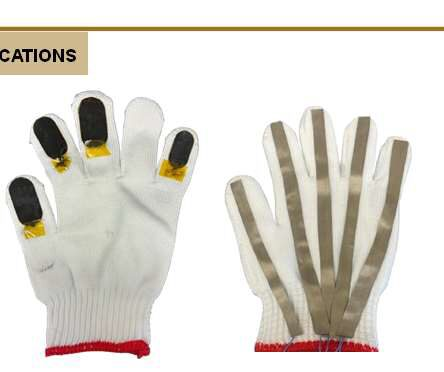
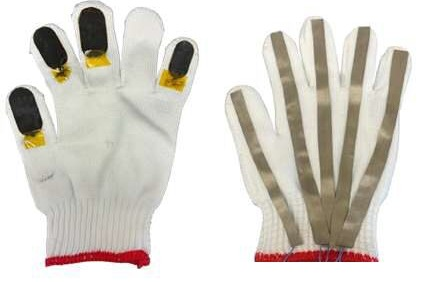
Update About wording, expand materials write-up, tighten glove photo
- About: "intersection" -> "bridge" of physical/digital sides
- Materials Selection: add concrete findings from the linked study
  (surface roughness, print time, warping, and load-to-failure numbers
  for ABS-R vs Nylon CF)
- Cropped a leftover poster-ribbon artifact off the top of the glove
  research-cover photo
- Glove research credits now explicitly name the 2026 Research
  Distinction Award

diff --git a/index.html b/index.html
@@ -719,7 +719,7 @@
         </div>
         <div class="about-grid">
           <div class="reveal">
-            <p>I'm a mechanical engineering student who's happiest working at the intersection of the physical and digital sides of a build. I like problems that start with a hands-on constraint — a broken part, a rough material, a signal that needs to be captured — and end with something fabricated, tested, and working.</p>
+            <p>I'm a mechanical engineering student who's happiest working at the bridge of the physical and digital sides of a build. I like problems that start with a hands-on constraint — a broken part, a rough material, a signal that needs to be captured — and end with something fabricated, tested, and working.</p>
             <p>My interests sit across manufacturing and materials: additive manufacturing, CNC fabrication, reverse-engineering, and sensor research, with coursework and lab work that lean into both the design side and the physical build side of engineering. I care about work that's precise enough to hold up under testing and practical enough to actually get made.</p>
           </div>
           <div class="spec-list reveal">
@@ -918,7 +918,7 @@
           <p>ZnO's high-aspect-ratio nanorods increase contact area for stronger triboelectric charge generation and add a piezoelectric response, so the sensor reacts to both contact and mechanical deformation. LIG's porous, laser-patterned graphene structure keeps the electrode conductive through repeated bending — important for something worn on a moving hand.</p>
           <p>I built a multi-channel data-acquisition system on an Arduino Nano BLE to digitize and transmit sensor signals over Bluetooth, then ran voltage-spike testing across all five fingers individually. Each finger produced repeatable voltage spikes on contact and pressure, confirming the sensing layers were working as intended.</p>
 
-          <p class="research-credits">With Don Perera and Prof. Wenzhuo Wu, Flex Laboratory, Purdue University. Presented as a research poster; applications include robotic hand control, ergonomic monitoring, and digital-twin data collection.</p>
+          <p class="research-credits">With Don Perera and Prof. Wenzhuo Wu, Flex Laboratory, Purdue University. Presented as a research poster and recognized with the 2026 Research Distinction Award; applications include robotic hand control, ergonomic monitoring, and digital-twin data collection.</p>
         </div>
 
         <div class="research-entry reveal">
@@ -937,7 +937,7 @@
         <div class="research-entry reveal">
           <span class="research-tag">Independent Research · Alpharetta, GA · Aug 2024 – Aug 2025</span>
           <h3>Materials Selection — ABS-R vs. Nylon Carbon Fiber</h3>
-          <p>Evaluated and compared the printability of ABS-R and Nylon Carbon Fiber through controlled 3D printing tests, assessing surface finish, warping, ease of printing, and structural strength. Combined qualitative observation with quantitative measurement to recommend the optimal material based on print quality and overall usability.</p>
+          <p>Evaluated and compared the printability of ABS-R and Nylon Carbon Fiber through controlled 3D printing tests, assessing surface finish, warping, ease of printing, and structural strength. ABS-R produced a smoother, glossier finish (3.5 µm average roughness) with more forgiving, consistent prints, but ran slower at 32:42 per part and warped slightly more, averaging 0.12 mm of edge lifting. Nylon CF held up far better under load — sustaining over 9 kg before failure, more than double ABS-R's breaking point — while also printing faster at 26:39 and warping less at 0.09 mm, at the cost of a steeper learning curve that demands precise bed leveling and dedicated hardware. Combined qualitative observation with quantitative measurement to recommend ABS-R for aesthetic, low-maintenance builds and Nylon CF for demanding structural applications.</p>
           <div class="research-gallery">
             <figure class="gallery-item">
               <img src="assets/abs-r-strength-sample.jpg" alt="ABS-R printed test strip after strength testing, showing the torn cross-section" loading="lazy">
